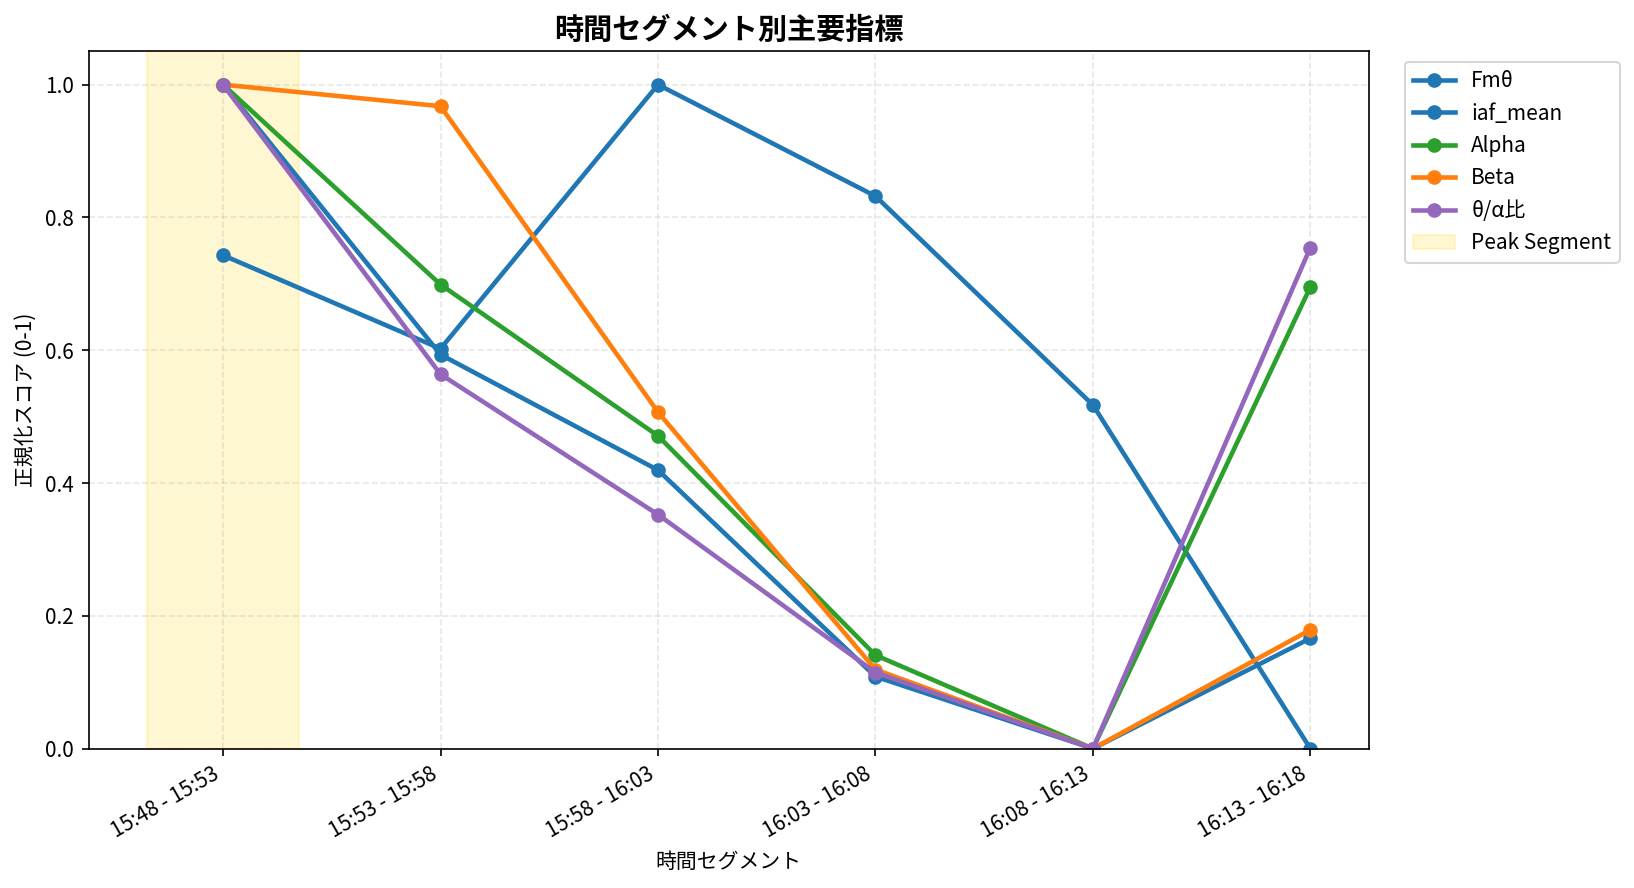
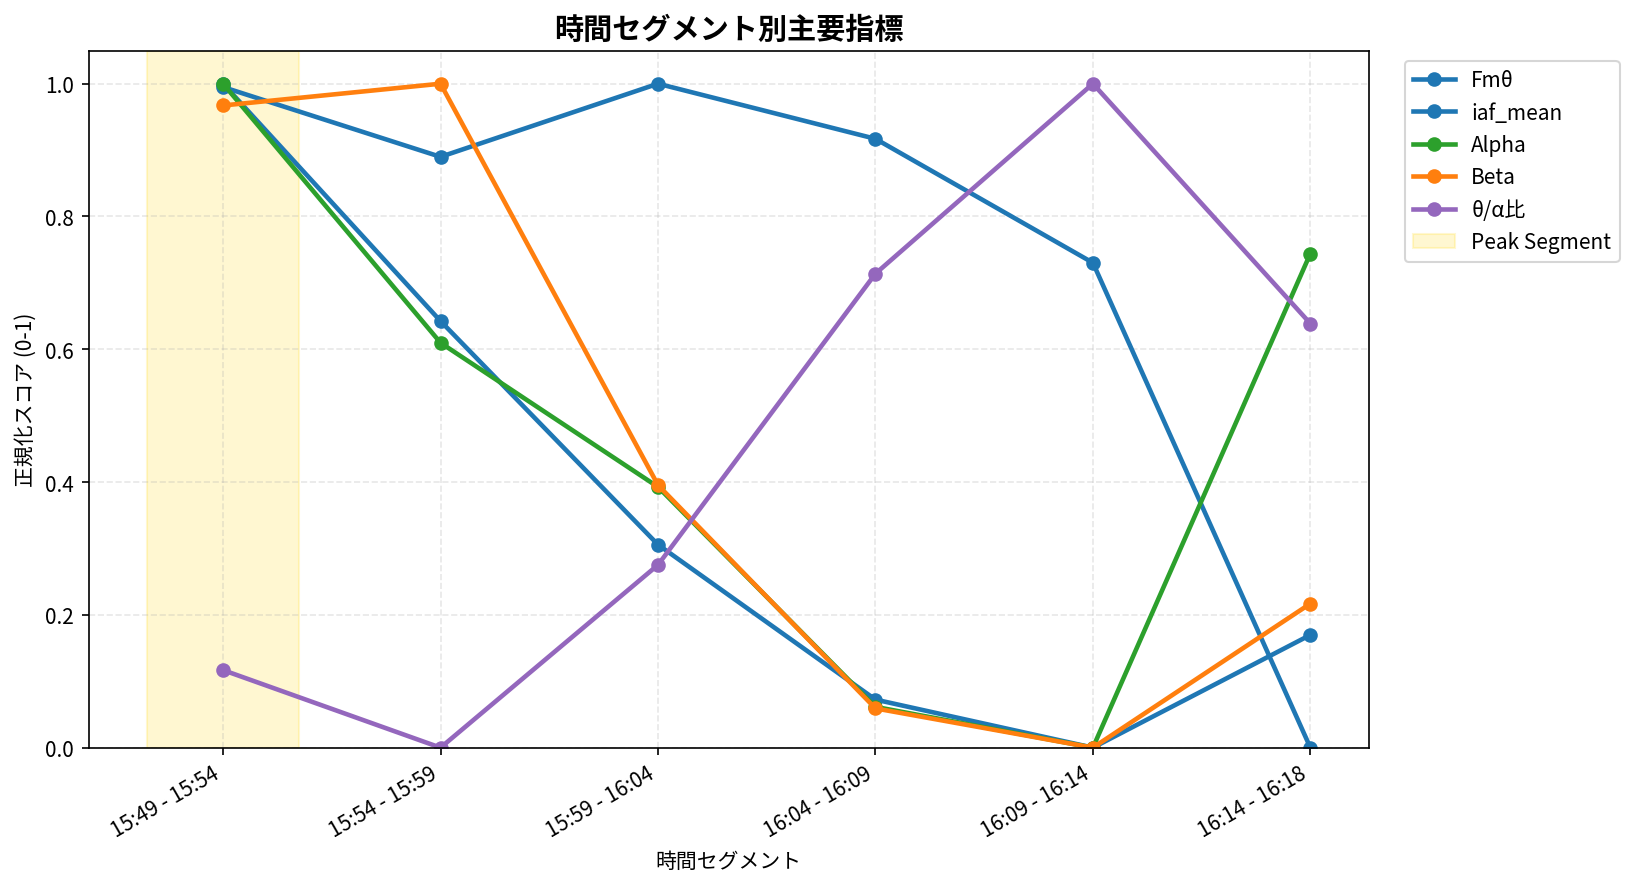
bels修正

diff --git a/lib/eeg.py b/lib/eeg.py
@@ -11,6 +11,7 @@ from typing import Dict, Optional, TYPE_CHECKING
 
 import numpy as np
 import pandas as pd
+from scipy import stats
 
 from .sensors.eeg.frontal_theta import (
     FrontalThetaResult,
@@ -57,6 +58,7 @@ def calculate_segment_analysis(
     segment_minutes: int = 5,
     band_means: Optional[Dict[str, pd.Series]] = None,
     iaf_series: Optional[pd.Series] = None,
+    warmup_minutes: float = 0.0,
 ) -> SegmentAnalysisResult:
     """
     セッションを一定時間のセグメントに分割し、主要指標を算出する。
@@ -74,6 +76,8 @@ def calculate_segment_analysis(
         未指定の場合は内部で計算する。
     iaf_series : pd.Series, optional
         IAF（Individual Alpha Frequency）の時系列データ（indexはタイムスタンプ）。
+    warmup_minutes : float, default 0.0
+        セッション開始後の除外期間（分単位）。アーティファクト除去のため。
 
     Returns
     -------
@@ -91,17 +95,27 @@ def calculate_segment_analysis(
     if df_clean.empty:
         raise ValueError('有効なTimeStampを持つデータがありません。')
 
-    session_start = df_clean['TimeStamp'].iloc[0]
+    # ウォームアップ期間を除外
+    original_start = df_clean['TimeStamp'].iloc[0]
+    session_start = original_start + pd.Timedelta(minutes=warmup_minutes)
     session_end = df_clean['TimeStamp'].iloc[-1]
+
+    # ウォームアップ後のデータのみを使用
+    df_clean = df_clean[df_clean['TimeStamp'] >= session_start]
+    if df_clean.empty:
+        raise ValueError(f'ウォームアップ期間（{warmup_minutes}分）除外後、有効なデータがありません。')
+
     freq_str = f'{int(segment_minutes)}T'
     segment_delta = pd.Timedelta(minutes=segment_minutes)
 
-    # Fmθ時系列
+    # Fmθ時系列（ウォームアップ期間を除外）
     fmtheta_series = fmtheta_series.sort_index()
+    fmtheta_series = fmtheta_series[fmtheta_series.index >= session_start]
 
-    # IAF時系列（渡されている場合）
+    # IAF時系列（渡されている場合、ウォームアップ期間を除外）
     if iaf_series is not None:
         iaf_series = iaf_series.sort_index()
+        iaf_series = iaf_series[iaf_series.index >= session_start]
 
     # バンド別の平均値（外部から渡されない場合は内部で計算）
     if band_means is None:
@@ -136,7 +150,15 @@ def calculate_segment_analysis(
         clean_slice_exists = clean_mask.any()
 
         fm_slice = fmtheta_series.loc[(fmtheta_series.index >= start) & (fmtheta_series.index < end)]
-        fm_mean = fm_slice.mean()
+
+        # Fmθ平均の計算（外れ値除去）
+        fm_clean = fm_slice.dropna()
+        if len(fm_clean) > 3:  # 最低限のサンプル数が必要
+            z_scores = np.abs(stats.zscore(fm_clean))
+            fm_filtered = fm_clean[z_scores < 3.0]
+            fm_mean = fm_filtered.mean() if len(fm_filtered) > 0 else fm_clean.mean()
+        else:
+            fm_mean = fm_clean.mean() if len(fm_clean) > 0 else np.nan
 
         # IAF平均（渡されている場合）
         iaf_mean = np.nan
@@ -154,9 +176,10 @@ def calculate_segment_analysis(
         beta_mean = _segment_mean(band_series['Beta'])
         theta_mean = _segment_mean(band_series['Theta'])
 
+        # θ/α比: 対数値（Bels）なので引き算でlog(theta/alpha)を計算
         theta_alpha_ratio = np.nan
-        if pd.notna(alpha_mean) and alpha_mean != 0:
-            theta_alpha_ratio = theta_mean / alpha_mean
+        if pd.notna(alpha_mean) and pd.notna(theta_mean):
+            theta_alpha_ratio = theta_mean - alpha_mean
 
         clean_count = int(clean_mask.sum())
 
@@ -214,9 +237,9 @@ def calculate_segment_analysis(
             '時間帯': row['label'],
             'Fmθ平均 (μV²)': row['fmtheta_mean'],
             'IAF平均 (Hz)': row['iaf_mean'],
-            'Alpha平均 (μV²)': row['alpha_mean'],
-            'Beta平均 (μV²)': row['beta_mean'],
-            'θ/α比': row['theta_alpha_ratio'],
+            'Alpha平均 (Bels)': row['alpha_mean'],
+            'Beta平均 (Bels)': row['beta_mean'],
+            'θ/α比 (Bels)': row['theta_alpha_ratio'],
             '備考': comment,
             'ピーク': '★' if (peak_idx is not None and int(row['segment_index']) == peak_idx) else '',
         })

diff --git a/lib/sensors/eeg/ratios.py b/lib/sensors/eeg/ratios.py
@@ -62,19 +62,48 @@ def calculate_band_ratios(df, resample_interval='10S', bands=None):
     # リサンプリング
     ratio_df_resampled = ratio_df.set_index('TimeStamp').resample(resample_interval).mean().reset_index()
 
-    # 統計サマリー
+    # 統計サマリー（外れ値除去版）
     summary_scores = []
+    z_threshold = 3.0
+
     for ratio_name, _, _ in ratio_configs:
         if ratio_name in ratio_df.columns:
             values = ratio_df[ratio_name].dropna()
-            summary_scores.append({
-                '指標': ratio_name,
-                '平均値': values.mean(),
-                '中央値': values.median(),
-                '標準偏差': values.std(),
-                '最小値': values.min(),
-                '最大値': values.max(),
-            })
+
+            if len(values) > 0:
+                # Z-scoreによる外れ値除去
+                z_scores = np.abs(stats.zscore(values))
+                filtered_values = values[z_scores < z_threshold]
+                n_outliers = len(values) - len(filtered_values)
+
+                # 外れ値除去後の統計量を計算
+                if len(filtered_values) > 0:
+                    q1 = filtered_values.quantile(0.25)
+                    q3 = filtered_values.quantile(0.75)
+                    iqr = q3 - q1
+
+                    summary_scores.append({
+                        '指標': ratio_name,
+                        '平均値': filtered_values.mean(),
+                        '中央値': filtered_values.median(),
+                        '標準偏差': filtered_values.std(),
+                        '最小値': filtered_values.min(),
+                        '最大値': filtered_values.max(),
+                        'IQR': iqr,
+                        '除外サンプル数': n_outliers,
+                    })
+                else:
+                    # 全て外れ値の場合
+                    summary_scores.append({
+                        '指標': ratio_name,
+                        '平均値': np.nan,
+                        '中央値': np.nan,
+                        '標準偏差': np.nan,
+                        '最小値': np.nan,
+                        '最大値': np.nan,
+                        'IQR': np.nan,
+                        '除外サンプル数': n_outliers,
+                    })
 
     # スパイク分析
     spike_info = []

diff --git a/issues/003_improve_daily_report/generate_report.py b/issues/003_improve_daily_report/generate_report.py
@@ -292,6 +292,7 @@ def generate_markdown_report(data_path, output_dir, results):
             if 'band_ratios_stats' in results:
                 report += results['band_ratios_stats'].to_markdown(index=False, floatfmt='.3f')
                 report += "\n\n"
+                report += "> **注**: 統計値は外れ値（Z-score > 3）を除外して計算されています。IQRは四分位範囲（75%点 - 25%点）を示します。\n\n"
 
     # ========================================
     # 血流動態分析 (fNIRS)
@@ -546,6 +547,7 @@ def run_full_analysis(data_path, output_dir):
             fmtheta_result.time_series,
             segment_minutes=5,
             iaf_series=iaf_series,
+            warmup_minutes=1.0,  # 最初の1分間を除外（アーティファクト対策）
         )
         print('プロット中: 時間セグメント比較...')
         segment_plot_name = 'time_segment_metrics.png'

diff --git a/issues/003_improve_daily_report/REPORT.md b/issues/003_improve_daily_report/REPORT.md
@@ -1,6 +1,6 @@
 # Muse脳波データ分析レポート
 
-- **生成日時**: 2025-11-01 18:44:45
+- **生成日時**: 2025-11-01 19:07:34
 - **データファイル**: `mindMonitor_2025-11-01--15-48-25_1605952226398231477.csv`
 - **記録時間**: 2025-11-01 15:48:25 ~ 2025-11-01 16:18:24
 - **計測時間**: 30.0 分
@@ -27,13 +27,13 @@
 
 ### セッション総合評価
 
-- **リラックス度 (α/β)**: 70.667 (とても高い)
-- **集中度 (β/θ)**: 4.449 (とても高い)
-- **瞑想深度 (θ/α)**: 33.708 (深い)
+- **リラックス度 (α/β)**: 7.901 (とても高い)
+- **集中度 (β/θ)**: 2.683 (とても高い)
+- **瞑想深度 (θ/α)**: 7.373 (深い)
 
 ### ピークパフォーマンス
 
-- **最高パフォーマンス区間**: 15:48 - 15:53 (スコア: 0.91)
+- **最高パフォーマンス区間**: 15:49 - 15:54 (スコア: 0.70)
 
 ## 🧠 周波数帯域分析
 
@@ -100,11 +100,13 @@
 
 ![バンド比率](img/band_ratios.png)
 
-| 指標               |   平均値 |   中央値 |   標準偏差 |   最小値 |      最大値 |
-|:-------------------|---------:|---------:|-----------:|---------:|------------:|
-| リラックス度 (α/β) |   70.667 |    2.706 |   8371.910 |    0.353 | 1116654.268 |
-| 集中度 (β/θ)       |    4.449 |    0.979 |     93.511 |    0.271 |    8402.026 |
-| 瞑想深度 (θ/α)     |   33.708 |    2.385 |   3034.919 |    0.057 |  402385.124 |
+| 指標               |   平均値 |   中央値 |   標準偏差 |   最小値 |   最大値 |   IQR |   除外サンプル数 |
+|:-------------------|---------:|---------:|-----------:|---------:|---------:|------:|-----------------:|
+| リラックス度 (α/β) |    7.901 |    2.706 |     74.212 |    0.353 | 5355.075 | 2.355 |               26 |
+| 集中度 (β/θ)       |    2.683 |    0.978 |      9.937 |    0.271 |  266.000 | 1.053 |              520 |
+| 瞑想深度 (θ/α)     |    7.373 |    2.384 |     56.004 |    0.057 | 3794.935 | 2.910 |              104 |
+
+> **注**: 統計値は外れ値（Z-score > 3）を除外して計算されています。IQRは四分位範囲（75%点 - 25%点）を示します。
 
 ## 🩸 血流動態分析 (fNIRS)
 
@@ -127,12 +129,12 @@
 
 ### 詳細データ
 
-| セグメント   | 時間帯        |   Fmθ平均 (μV²) |   IAF平均 (Hz) |   Alpha平均 (μV²) |   Beta平均 (μV²) |   θ/α比 | 備考   | ピーク   |
-|:-------------|:--------------|----------------:|---------------:|------------------:|-----------------:|--------:|:-------|:---------|
-| セグメント1  | 15:48 - 15:53 |         191.708 |         10.697 |             0.730 |            0.191 |   0.066 |        | ★        |
-| セグメント2  | 15:53 - 15:58 |         141.187 |         10.674 |             0.644 |            0.185 |  -0.190 |        |          |
-| セグメント3  | 15:58 - 16:03 |         119.572 |         10.741 |             0.579 |            0.095 |  -0.314 |        |          |
-| セグメント4  | 16:03 - 16:08 |          80.928 |         10.712 |             0.484 |            0.019 |  -0.454 |        |          |
-| セグメント5  | 16:08 - 16:13 |          67.453 |         10.660 |             0.444 |           -0.005 |  -0.521 |        |          |
-| セグメント6  | 16:13 - 16:18 |          88.089 |         10.573 |             0.643 |            0.030 |  -0.078 |        |          |
+| セグメント   | 時間帯        |   Fmθ平均 (μV²) |   IAF平均 (Hz) |   Alpha平均 (Bels) |   Beta平均 (Bels) |   θ/α比 (Bels) | 備考   | ピーク   |
+|:-------------|:--------------|----------------:|---------------:|-------------------:|------------------:|---------------:|:-------|:---------|
+| セグメント1  | 15:49 - 15:54 |         182.192 |         10.717 |              0.740 |             0.170 |         -0.762 |        | ★        |
+| セグメント2  | 15:54 - 15:59 |         141.910 |         10.700 |              0.629 |             0.176 |         -0.775 |        |          |
+| セグメント3  | 15:59 - 16:04 |         103.971 |         10.718 |              0.567 |             0.069 |         -0.745 |        |          |
+| セグメント4  | 16:04 - 16:09 |          77.681 |         10.704 |              0.473 |             0.009 |         -0.697 |        |          |
+| セグメント5  | 16:09 - 16:14 |          69.525 |         10.673 |              0.456 |            -0.001 |         -0.665 |        |          |
+| セグメント6  | 16:14 - 16:18 |          88.656 |         10.552 |              0.667 |             0.037 |         -0.705 |        |          |
 
